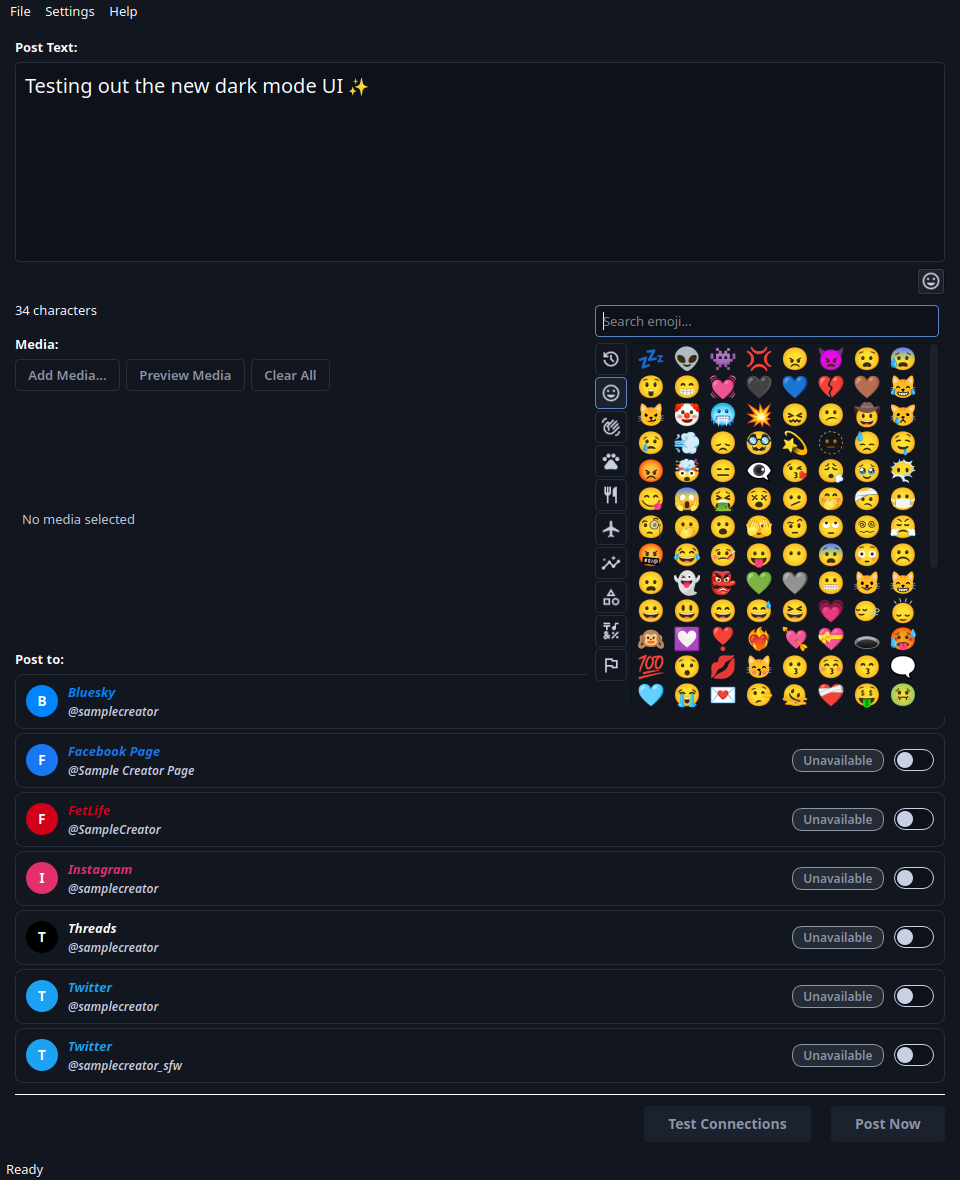
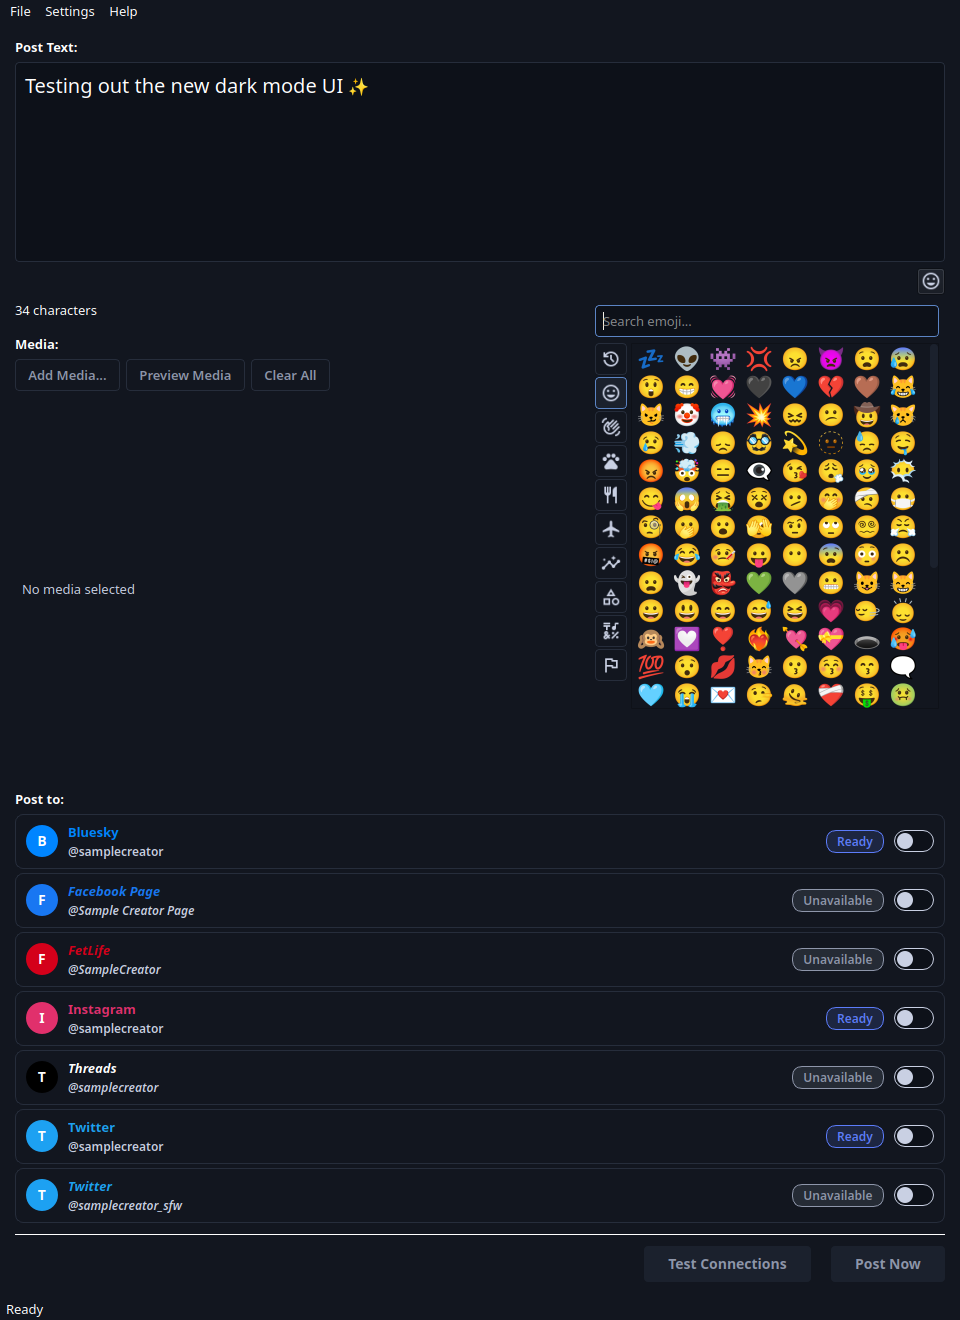
Show a mix of Ready/Unavailable accounts in the main-window screenshot
Bluesky, Instagram, and one Twitter account now have fake saved credentials
so their status pills read "Ready", while the rest stay "Unavailable" --
more representative than an all-unconfigured account list. Also widened the
window so the emoji popup no longer clips the account list, and pinned the
results-dialog screenshot's failure timestamp so re-running the capture
script doesn't churn the PNG on every regeneration.

🌸 Shipped with Kanna — https://kanna.sh

Kanna-Agent: claude/sonnet

diff --git a/tools/screenshots/generate_readme_screenshots.py b/tools/screenshots/generate_readme_screenshots.py
@@ -66,6 +66,12 @@ FAKE_ACCOUNTS = [
     AccountConfig(platform_id='fetlife', account_id='fetlife_1', profile_name='SampleCreator'),
 ]
 
+# Accounts with saved (fake) credentials show a "Ready" status pill; the rest
+# show "Unavailable" -- a mix makes for a more representative screenshot than
+# an all-or-nothing account list. FetLife is WebView/session-based rather
+# than credential-based, so it's left "Unavailable" here regardless.
+FAKE_READY_ACCOUNT_IDS = {'bluesky_1', 'meta_instagram_1', 'twitter_1'}
+
 
 def _qpixmap_to_pil(pixmap) -> Image.Image:
     qimage = pixmap.toImage().convertToFormat(QImage.Format.Format_RGBA8888)
@@ -86,20 +92,22 @@ def _save(image: Image.Image, name: str) -> None:
     print(f'Wrote {path} ({image.width}x{image.height})')
 
 
-def build_auth_manager() -> AuthManager:
+def build_auth_manager(*, with_ready_accounts: bool = False) -> AuthManager:
     auth_manager = AuthManager()
     for account in FAKE_ACCOUNTS:
         auth_manager.add_account(account)
+        if with_ready_accounts and account.account_id in FAKE_READY_ACCOUNT_IDS:
+            auth_manager.save_account_credentials(account.account_id, {'access_token': 'fake'})
     return auth_manager
 
 
 def capture_main_window(app: QApplication) -> None:
     config = ConfigManager()
-    auth_manager = build_auth_manager()
+    auth_manager = build_auth_manager(with_ready_accounts=True)
 
     window = MainWindow(config, auth_manager)
     apply_theme(app, window)
-    window.resize(960, 1180)
+    window.resize(960, 1320)
     window.show()
     QApplication.processEvents()
 
@@ -201,6 +209,9 @@ def capture_results_dialog(app: QApplication) -> None:
             error_message='Session expired -- please reconnect this account in Settings.',
             account_id='fetlife_1',
             profile_name='SampleCreator',
+            # Fixed rather than datetime.now() so re-running this script doesn't
+            # churn the output PNG's bytes on every regeneration.
+            timestamp='2026-01-01T12:00:00',
         ),
     ]
     dialog = ResultsDialog(results)
